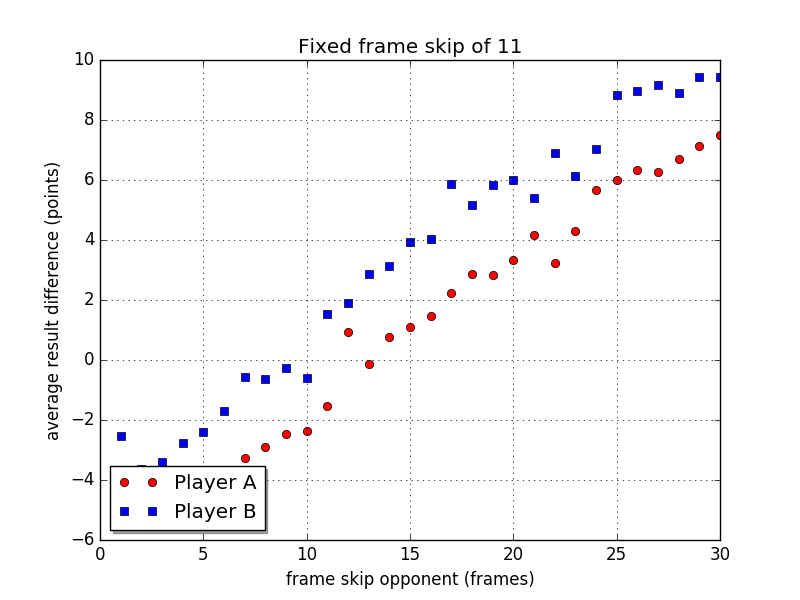
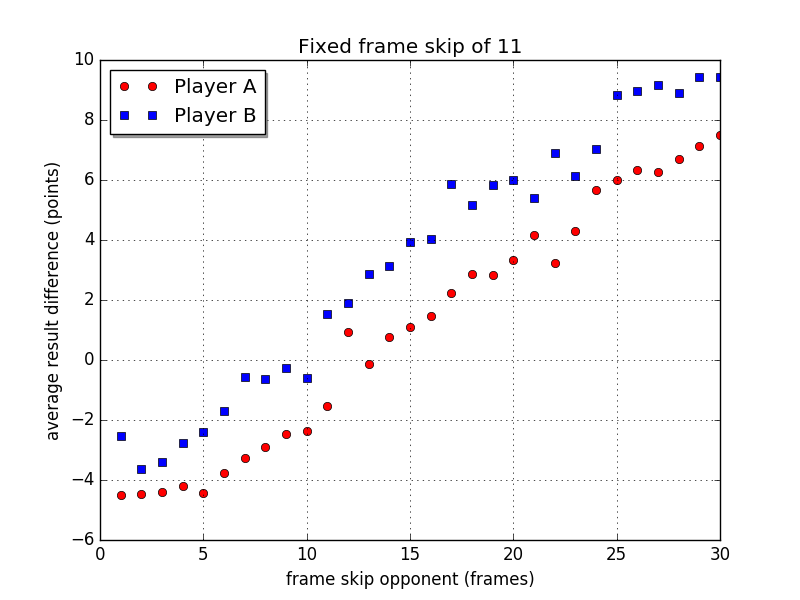
legend changed

Changed region(s): [[0.125, 0.75, 0.3438, 0.9], [0.125, 0.09, 0.3438, 0.24]]

diff --git a/plots.py b/plots.py
@@ -69,7 +69,7 @@ def plot_frame_skip(frame_skip_opponent, average_difference_A, average_differenc
     plt.plot(frame_skip_opponent, average_difference_A, 'ro', label='Player A')
     plt.plot(frame_skip_opponent, average_difference_B, 'bs', label='Player B')
 
-    legend = plt.legend(loc='lower left', shadow=True)
+    legend = plt.legend(loc='upper left', shadow=True)
     plt.xlabel('frame skip opponent (frames)')
     plt.ylabel('average result difference (points)')
     plt.title('Fixed frame skip of %s' %(fixed_frame_skip))
